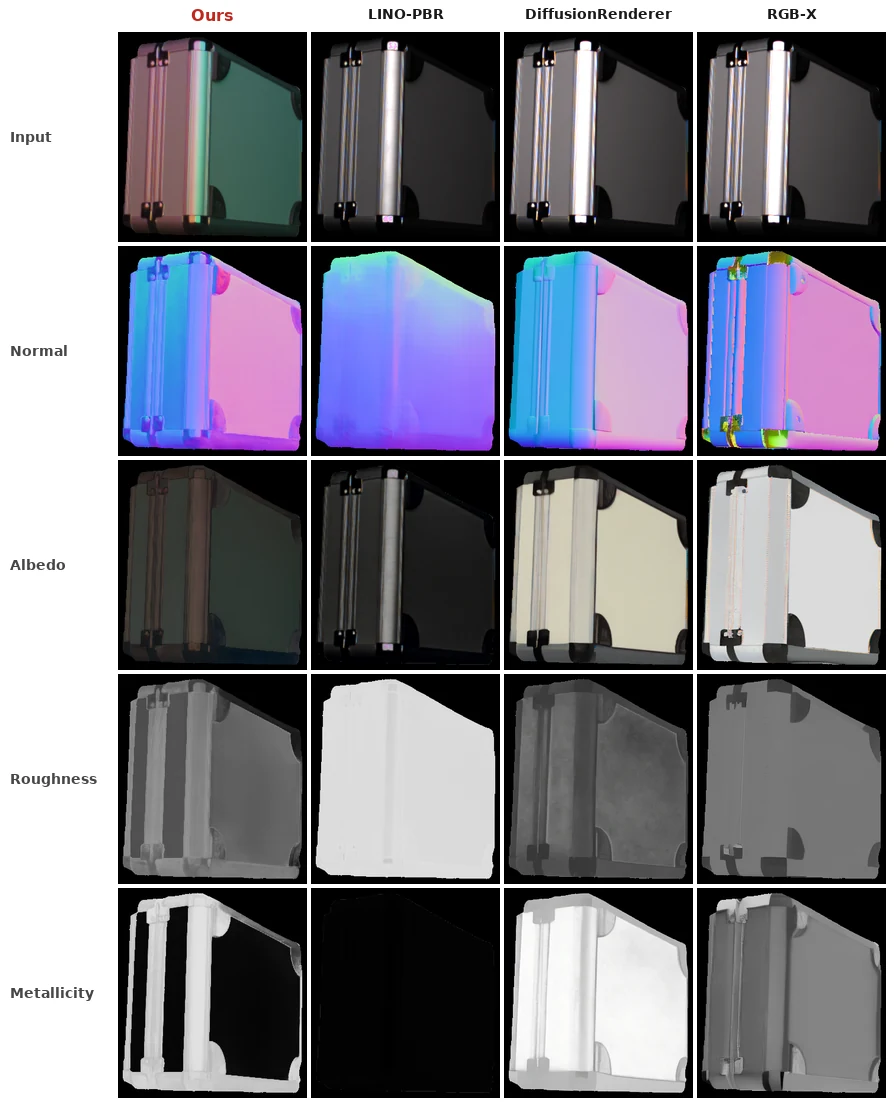
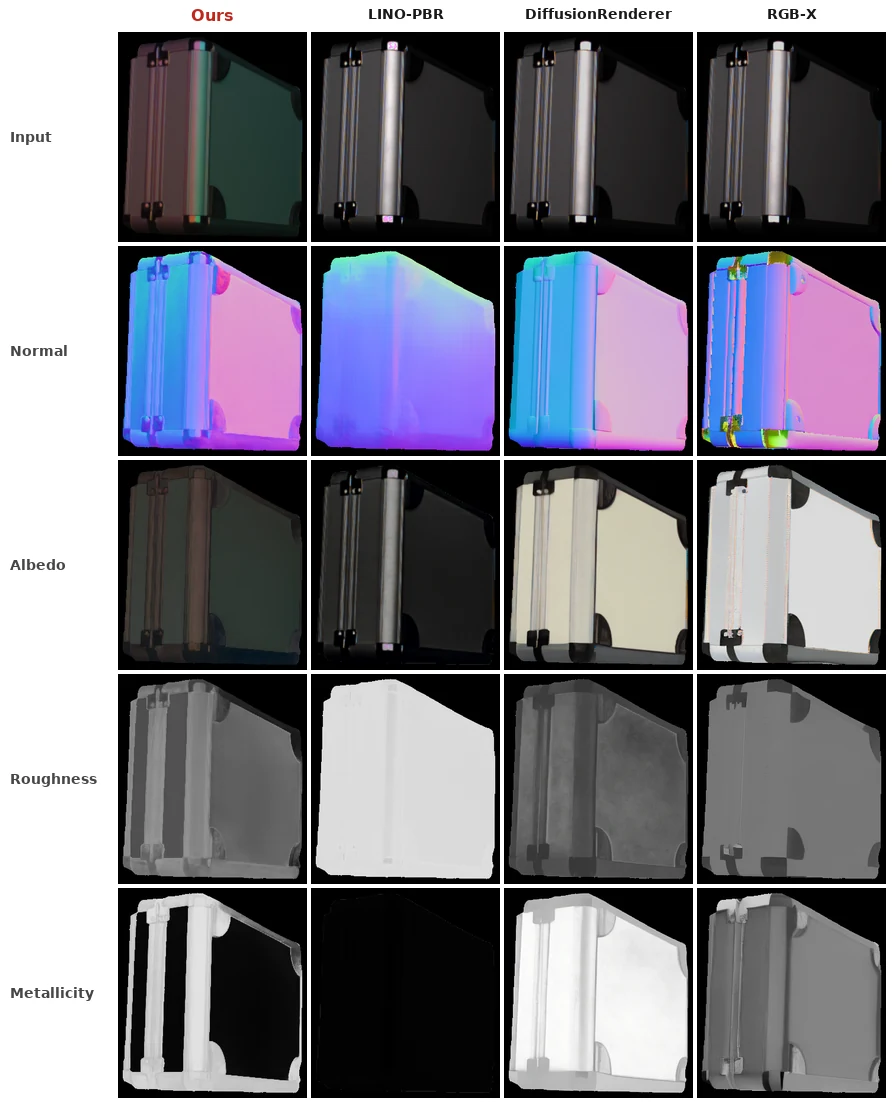
Set the TL;DR apart, expose the inputs to match
The TL;DR becomes a callout with a gold rule and the three ideas picked out in
bold, so it reads as the hook rather than another paragraph.

Our input column was washing out: the per-scene 99th-percentile normalisation
plus a full sRGB gamma pushed its foreground mean to 75-117 while the relighting
strip sits at 26-50. Exposure is now solved in the linear HDR domain before the
gamma, targeting the same foreground mean for all four input columns, which
keeps the pattern colours instead of flattening them to white.

The comparison panel grows 30% to 728 px tall. Tables come out for now, and the
bullet lines under Move the light, Environment lighting and Dynamic scenes go
with them; the table styles and the ranking script stay for when they return.

Changed region(s): [[0.5738, 0.0309, 0.9966, 0.216], [0.1208, 0.0309, 0.3624, 0.216], [0.4228, 0.0309, 0.453, 0.1851]]

diff --git a/index.html b/index.html
@@ -11,13 +11,13 @@
   <link href="https://fonts.googleapis.com/css?family=Google+Sans|Noto+Sans|Castoro"
         rel="stylesheet">
 
-  <link rel="stylesheet" href="./static/css/bulma.min.css?v=5">
+  <link rel="stylesheet" href="./static/css/bulma.min.css?v=6">
   <link rel="stylesheet" href="https://cdnjs.cloudflare.com/ajax/libs/font-awesome/5.15.3/css/all.min.css" />
-  <link rel="stylesheet" href="./static/css/index.css?v=5">
+  <link rel="stylesheet" href="./static/css/index.css?v=6">
 
-  <script defer src="./static/js/fontawesome.all.min.js?v=5"></script>
-  <script defer src="./static/js/index.js?v=5"></script>
-  <script defer src="./static/js/relight.js?v=5"></script>
+  <script defer src="./static/js/fontawesome.all.min.js?v=6"></script>
+  <script defer src="./static/js/index.js?v=6"></script>
+  <script defer src="./static/js/relight.js?v=6"></script>
 </head>
 <body>
 
@@ -84,12 +84,16 @@
 <section class="hero teaser">
   <div class="container is-max-desktop">
     <div class="hero-body">
-      <p class="tldr">
-        We present a feed-forward inverse rendering method that works from a snapshot input.
-        On a display setup it combines color multiplexing with polarization imaging built on
-        measured reflectance data.
-      </p>
-      <div class="figure-frame"><img src="./static/image/teaser.webp?v=5" alt="Teaser"></div>
+      <div class="tldr">
+        <span class="tldr-tag">TL;DR</span>
+        <p>
+          We present a <strong>feed-forward inverse rendering</strong> method that works from a
+          <strong>snapshot input</strong>. On a display setup it combines <strong>color
+          multiplexing</strong> with <strong>polarization imaging</strong> built on measured
+          reflectance data.
+        </p>
+      </div>
+      <div class="figure-frame"><img src="./static/image/teaser.webp?v=6" alt="Teaser"></div>
     </div>
   </div>
 </section>
@@ -113,64 +117,14 @@
     </div>
 
     <p class="panel-title">Estimated PBR maps</p>
-    <div class="figure-frame pbr-frame"><img id="resPbr" src="./static/image/results/scene29_pbr.webp?v=5" alt="Estimated PBR maps"></div>
+    <div class="figure-frame pbr-frame"><img id="resPbr" src="./static/image/results/scene29_pbr.webp?v=6" alt="Estimated PBR maps"></div>
 
     <p class="panel-title">Relighting under a held-out display pattern</p>
-    <div class="figure-frame"><img id="resRelight" src="./static/image/results/scene29_relight.webp?v=5" alt="Relighting comparison"></div>
+    <div class="figure-frame"><img id="resRelight" src="./static/image/results/scene29_relight.webp?v=6" alt="Relighting comparison"></div>
   </div>
-
-  <h3 class="table-heading">Synthetic benchmark</h3>
-  <div class="res-table-container">
-    <table class="res-table" id="synthTable">
-      <thead>
-        <tr>
-          <th>Method</th>
-          <th data-dir="higher">Albedo PSNR &uarr;</th>
-          <th data-dir="lower">Albedo LPIPS &darr;</th>
-          <th data-dir="lower">Roughness RMSE &darr;</th>
-          <th data-dir="lower">Metallicity RMSE &darr;</th>
-          <th data-dir="lower">Normal MAE &darr;</th>
-        </tr>
-      </thead>
-      <tbody>
-        <tr><td>DiffusionRenderer</td><td class="num">13.03</td><td class="num">0.4039</td><td class="num">0.6999</td><td class="num">0.6317</td><td class="num">29.73</td></tr>
-        <tr><td>RGB-X</td><td class="num">4.75</td><td class="num">0.4884</td><td class="num">0.3596</td><td class="num">0.5529</td><td class="num">40.47</td></tr>
-        <tr><td>LINO-PBR (<i>N</i> = 1)</td><td class="num">14.80</td><td class="num">0.4446</td><td class="num">0.6658</td><td class="num">0.6476</td><td class="num">35.64</td></tr>
-        <tr class="ours"><td>Ours</td><td class="num">23.90</td><td class="num">0.1788</td><td class="num">0.0781</td><td class="num">0.2395</td><td class="num">11.45</td></tr>
-        <tr class="sep"><td>LINO-PBR (<i>N</i> = 4)<sup>&dagger;</sup></td><td class="num">15.60</td><td class="num">0.3708</td><td class="num">0.3746</td><td class="num">0.5843</td><td class="num">18.23</td></tr>
-      </tbody>
-    </table>
-  </div>
-
-  <h3 class="table-heading">Real captures &mdash; re-rendering accuracy</h3>
-  <div class="res-table-container">
-    <table class="res-table narrow" id="realTable">
-      <thead>
-        <tr>
-          <th>Method</th>
-          <th data-dir="higher">si-PSNR &uarr;</th>
-          <th data-dir="lower">si-LPIPS &darr;</th>
-          <th data-dir="lower">si-RMSE &darr;</th>
-        </tr>
-      </thead>
-      <tbody>
-        <tr><td>DiffusionRenderer</td><td class="num">16.31</td><td class="num">0.2729</td><td class="num">0.1652</td></tr>
-        <tr><td>RGB-X</td><td class="num">12.75</td><td class="num">0.4121</td><td class="num">0.2428</td></tr>
-        <tr><td>LINO-PBR (<i>N</i> = 1)</td><td class="num">19.16</td><td class="num">0.1949</td><td class="num">0.1220</td></tr>
-        <tr class="ours"><td>Ours</td><td class="num">20.15</td><td class="num">0.1690</td><td class="num">0.1050</td></tr>
-        <tr class="sep"><td>LINO-PBR (<i>N</i> = 4)<sup>&dagger;</sup></td><td class="num">19.18</td><td class="num">0.1493</td><td class="num">0.1223</td></tr>
-      </tbody>
-    </table>
-  </div>
-  <p class="caption has-text-centered"><sup>&dagger;</sup>Four-shot input, for reference.</p>
 
   <!-- ===================== Interactive relighting ===================== -->
   <h2>Move the light</h2>
-  <ul class="tight">
-    <li>Shaded live in your browser from the estimated maps &mdash; drag the image or the slider.</li>
-    <li>Same point-light orbit and BRDF as our offline renderer, plus a dim camera-side fill.</li>
-  </ul>
-
   <div class="relight-panel" id="relightPanel">
     <div class="scene-tabs" id="relightTabs"></div>
     <div class="relight-stage">
@@ -184,10 +138,6 @@
 
   <!-- ===================== Environment lighting ===================== -->
   <h2>Environment lighting</h2>
-  <ul class="tight">
-    <li>Rows are objects, columns are environments; the mirror ball shows the incident light.</li>
-  </ul>
-
   <div class="scene-viewer" id="envViewer">
     <div class="scene-bar">
       <button class="scene-arrow" id="envPrev" aria-label="Previous set">
@@ -198,14 +148,11 @@
         <span class="icon"><i class="fas fa-chevron-right"></i></span>
       </button>
     </div>
-    <div class="figure-frame"><img id="envImg" src="./static/image/envgrid/page1.webp?v=5" alt="Environment relighting grid"></div>
+    <div class="figure-frame"><img id="envImg" src="./static/image/envgrid/page1.webp?v=6" alt="Environment relighting grid"></div>
   </div>
 
   <!-- ===================== Dynamic scenes ===================== -->
   <h2>Dynamic scenes</h2>
-  <ul class="tight">
-    <li>Every frame is reconstructed independently &mdash; no temporal alignment.</li>
-  </ul>
   <div class="placeholder-slot">Video coming soon</div>
 
   <!-- ===================== Imaging system ===================== -->
@@ -216,7 +163,7 @@
     <li>A quarter-wave plate on the lens trades <em>S</em><sub>2</sub> for <em>S</em><sub>3</sub>, making circular polarization measurable.</li>
     <li>Per channel: unpolarized = <em>S</em><sub>0</sub>&minus;<em>S</em><sub>1</sub>, LP = &minus;<em>S</em><sub>1</sub>, CP = <em>S</em><sub>3</sub>/<em>S</em><sub>0</sub>.</li>
   </ul>
-  <div class="figure-frame"><img src="./static/image/imaging_system.webp?v=5" alt="Display-camera imaging system"></div>
+  <div class="figure-frame"><img src="./static/image/imaging_system.webp?v=6" alt="Display-camera imaging system"></div>
 
   <!-- ===================== Method ===================== -->
   <h2>Feed-forward inverse rendering</h2>
@@ -225,7 +172,7 @@
     <li>Attention alternates over space, spectral channel, polarization state and frames.</li>
     <li>One forward pass &rarr; normal, albedo, roughness, metallicity.</li>
   </ul>
-  <div class="figure-frame"><img src="./static/image/overview.webp?v=5" alt="Network overview"></div>
+  <div class="figure-frame"><img src="./static/image/overview.webp?v=6" alt="Network overview"></div>
 
   <!-- ===================== Dataset ===================== -->
   <h2>Expanded pBRDF dataset</h2>
@@ -236,10 +183,10 @@
   </ul>
   <div class="columns is-centered">
     <div class="column is-three-fifths">
-      <div class="figure-frame"><img src="./static/image/expand_data.webp?v=5" alt="pBRDF expansion pipeline"></div>
+      <div class="figure-frame"><img src="./static/image/expand_data.webp?v=6" alt="pBRDF expansion pipeline"></div>
     </div>
   </div>
-  <div class="figure-frame"><img src="./static/image/pbrdf_expansion.webp?v=5" alt="Synthesized pBRDF instances"></div>
+  <div class="figure-frame"><img src="./static/image/pbrdf_expansion.webp?v=6" alt="Synthesized pBRDF instances"></div>
 
   <!-- ===================== Citation ===================== -->
   <h2 id="citation">Citation</h2>

diff --git a/static/css/index.css b/static/css/index.css
@@ -216,13 +216,13 @@ p.panel-title {
 }
 .pbr-frame img {
   width: auto;
-  height: 560px;
+  height: 728px;
 }
 @media (max-width: 768px) {
-  .pbr-frame img { height: 430px; }
+  .pbr-frame img { height: 560px; }
 }
 @media (max-width: 480px) {
-  .pbr-frame img { height: 330px; }
+  .pbr-frame img { height: 400px; }
 }
 
 /* -------------------------- scene viewers -------------------------- */
@@ -391,11 +391,33 @@ table.res-table.narrow { min-width: 480px; }
 
 /* ------------------------------ TL;DR ------------------------------ */
 
-p.tldr {
-  max-width: 44rem;
-  margin: 0 auto 1.4rem;
-  text-align: center;
-  font-size: 17px;
-  line-height: 1.6;
-  color: #2b3038;
+.tldr {
+  position: relative;
+  max-width: 46rem;
+  margin: 0 auto 1.6rem;
+  padding: 20px 26px 18px;
+  background: #fbfaf6;
+  border: 1px solid #ece6d6;
+  border-left: 4px solid #c9a227;
+  border-radius: 8px;
+}
+.tldr p {
+  margin: 0;
+  font-size: 18px;
+  line-height: 1.65;
+  color: #24292e;
+}
+.tldr strong { color: #8a6d0b; font-weight: 700; }
+.tldr-tag {
+  display: inline-block;
+  margin-bottom: 8px;
+  font-size: 11.5px;
+  font-weight: 700;
+  letter-spacing: 0.12em;
+  text-transform: uppercase;
+  color: #a4801a;
+}
+@media (max-width: 640px) {
+  .tldr { padding: 16px 18px; }
+  .tldr p { font-size: 16px; }
 }

diff --git a/static/js/relight.js b/static/js/relight.js
@@ -8,7 +8,7 @@
 (function () {
   'use strict';
 
-  var ASSET_V = '?v=5';
+  var ASSET_V = '?v=6';
 
   var SCENES = [
     { label: 'Cat', key: 'scene29' },

diff --git a/static/js/index.js b/static/js/index.js
@@ -66,7 +66,7 @@
     });
   }
 
-  var ASSET_V = '?v=5';
+  var ASSET_V = '?v=6';
 
   var SCENES = [
     { label: 'Cat', key: 'scene29' },
